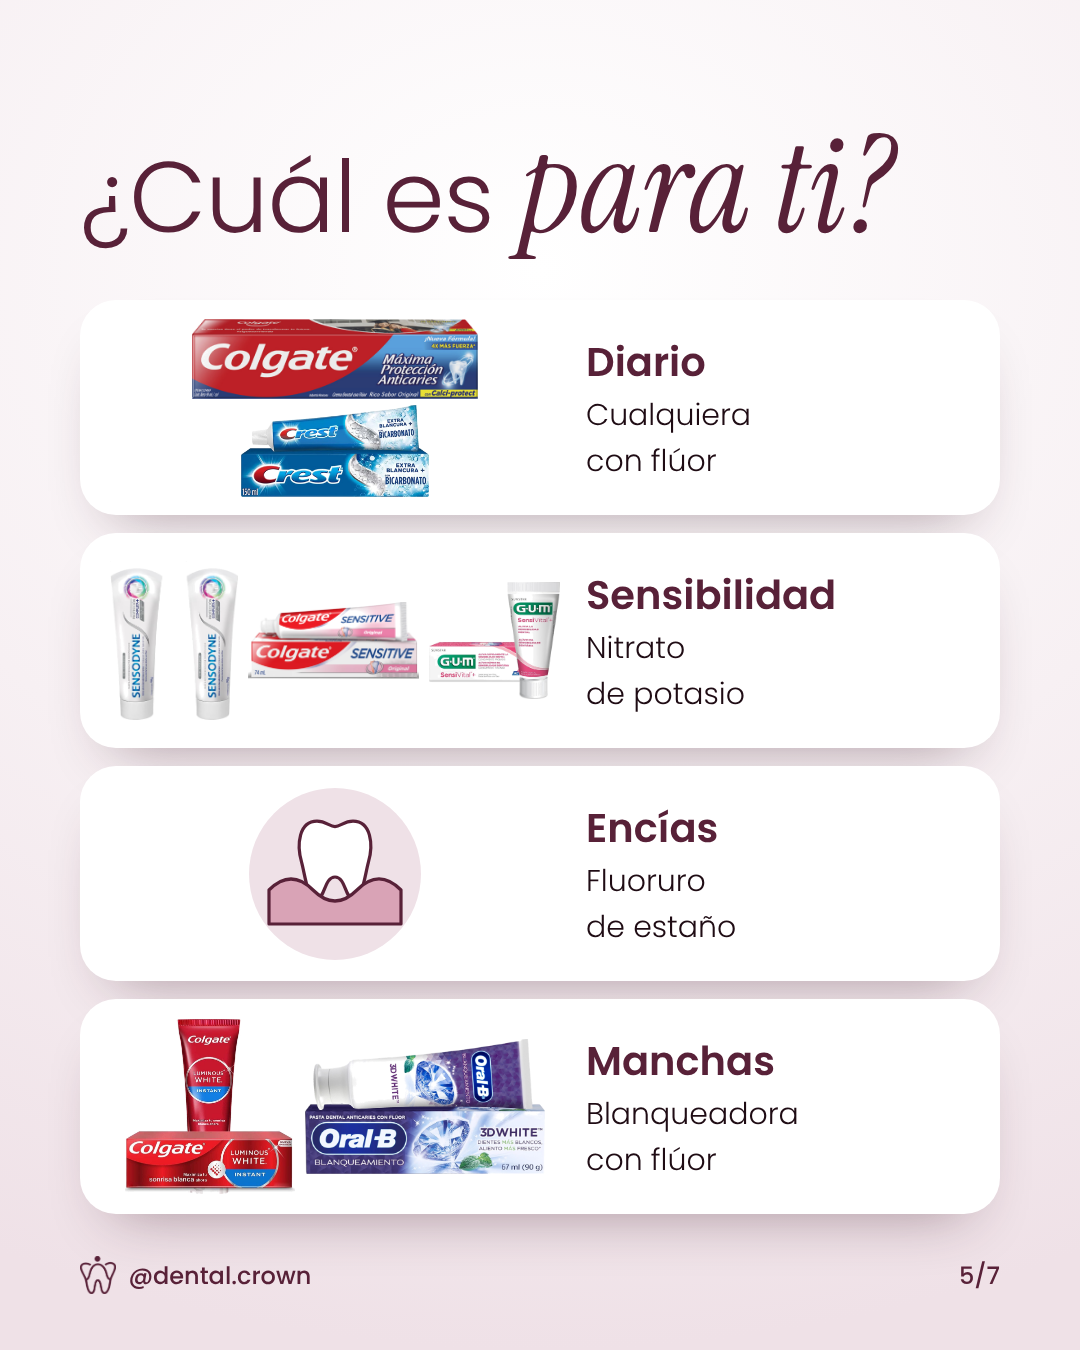
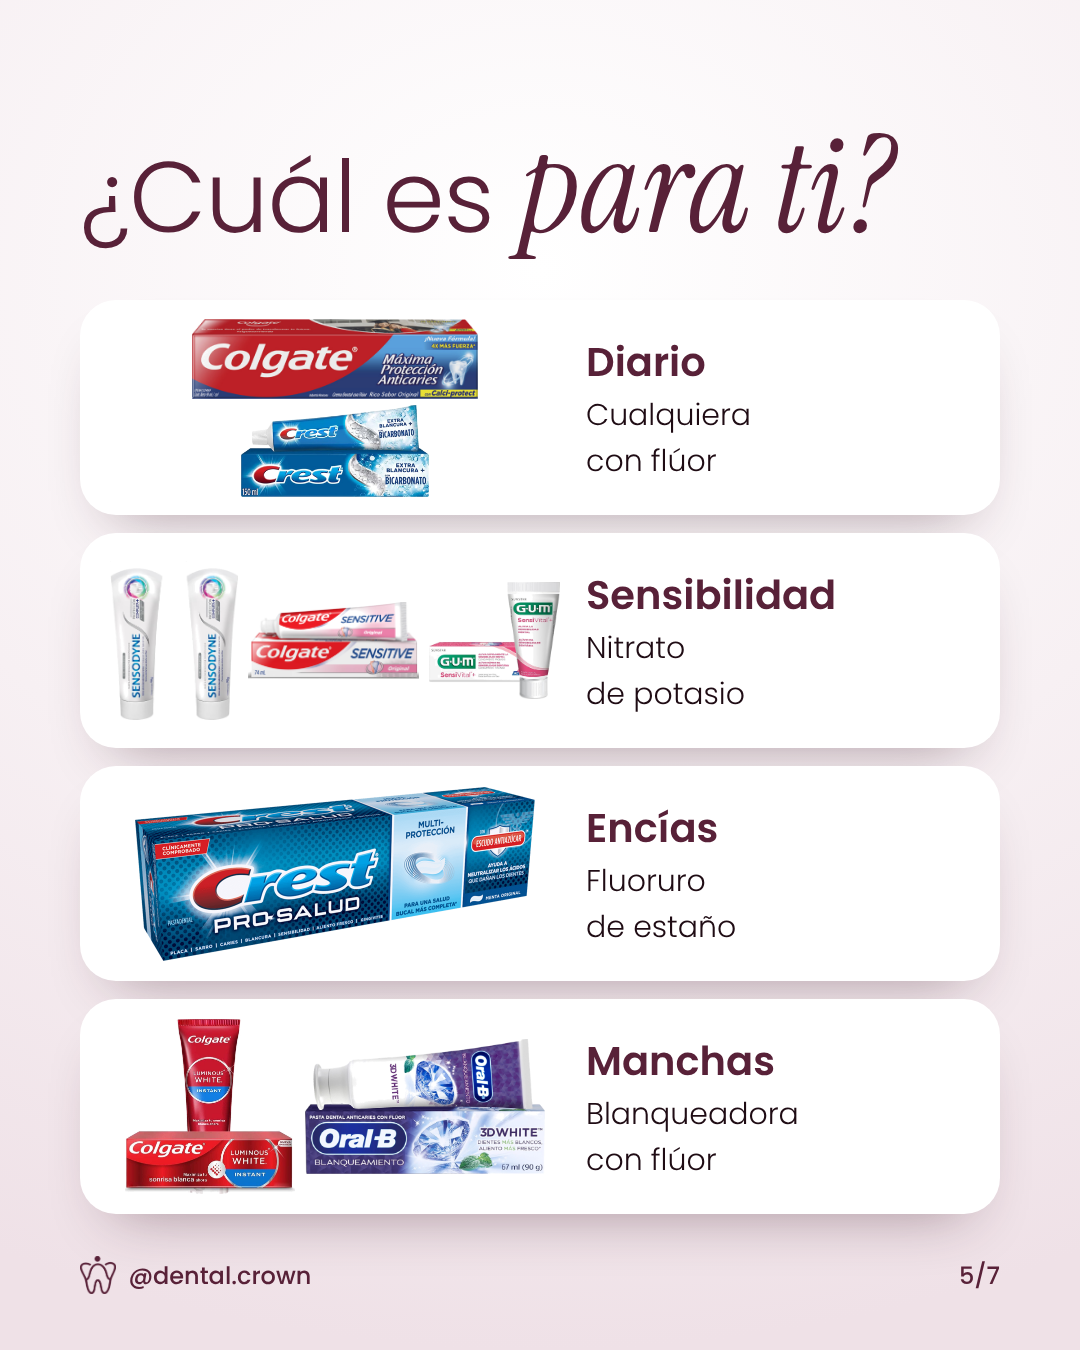
Carrusel pastas dentales: foto de Crest Pro-Salud en encías
Claude-Session: https://claude.ai/code/session_01EttaFvckRqUE3QgK7HqTfA

Changed region(s): [[0.1222, 0.56, 0.5194, 0.7156]]

diff --git a/post-pastas-dentales/texto-publicacion.md b/post-pastas-dentales/texto-publicacion.md
@@ -14,4 +14,4 @@ Para todos, lo básico es el flúor: búscalo en la etiqueta, entre 1,000 y 1,50
 
 ## Fotos (lámina 5)
 
-Ya van puestas las fotos que mandaste: Colgate Máxima Protección Anticaries, Crest, Sensodyne, Colgate Sensitive, GUM SensiVital+, Colgate Luminous White y Oral-B 3D White. Para "Encías" va un dibujo porque no hubo foto.
+Ya van puestas las fotos que mandaste: Colgate Máxima Protección Anticaries, Crest, Sensodyne, Colgate Sensitive, GUM SensiVital+, Colgate Luminous White y Oral-B 3D White. En "Encías" va Crest Pro-Salud (fluoruro de estaño). No está en el estudio de Profeco: va como ejemplo del ingrediente.
